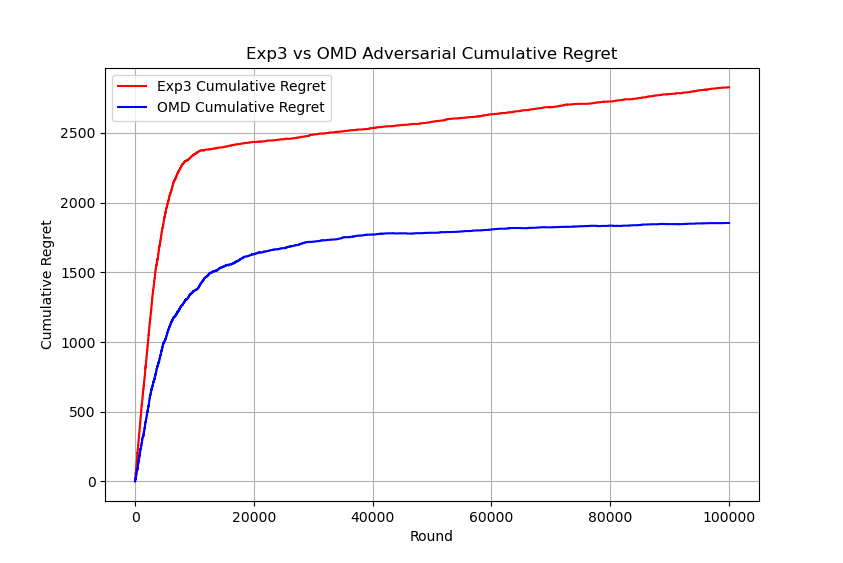
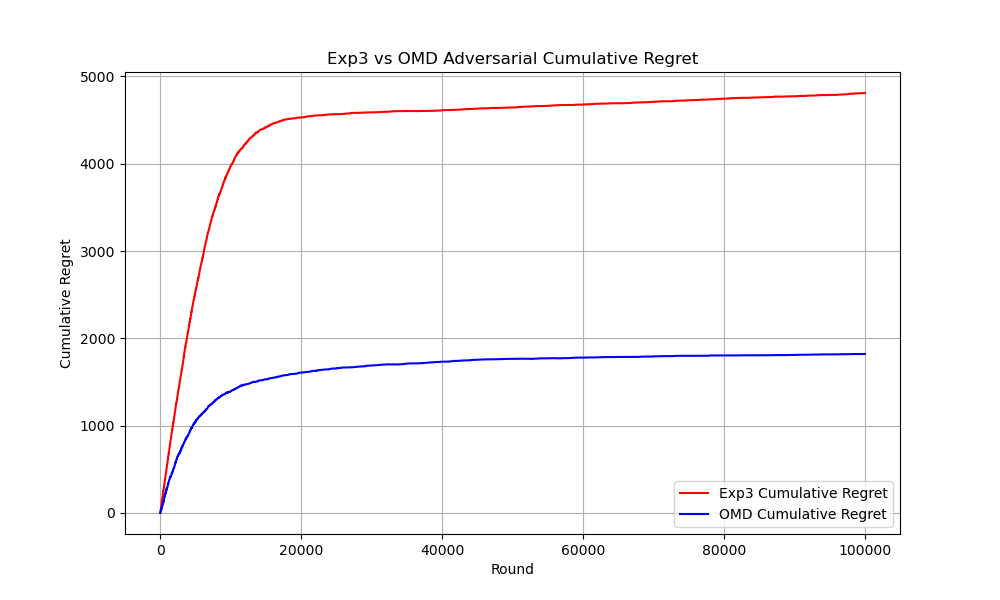
changes 3'abiya

diff --git a/omd/omdstochastic.py b/omd/omdstochastic.py
@@ -9,10 +9,15 @@ class stochastic_OMD_Environment:
         self.normalization_factor = 200*math.sqrt(10)
         self.estimated_loss_vector = np.zeros(number_of_arms)
         self.number_of_arms = number_of_arms
-        self.best_arm = random.randint(0, number_of_arms - 1)
+        # self.weights = np.random.uniform(0, 1, number_of_arms)
+        # alpha = np.random.randint(1, number_of_arms+1, number_of_arms)
+        # self.weights = np.random.dirichlet(alpha, size = 1).squeeze(0)
+
+        # self.best_arm = random.randint(0, number_of_arms - 1)
     
     def newtons_approximation_for_arm_weights(self, normalization_factor, estimated_loss_vector, learning_rate):
         weights_for_arms = np.zeros(number_of_arms)
+        # weights_for_arms = self.weights
         epsilon = 1.0e-9
         previous_normalization_factor = normalization_factor
         updated_normalization_factor = normalization_factor
@@ -21,7 +26,7 @@ class stochastic_OMD_Environment:
                 inner_product = abs((learning_rate * (estimated_loss_vector[arm] - updated_normalization_factor)))
                 exponent_of_inner_product = math.pow(((inner_product + epsilon)), -2)
                 weight_of_arm = 4 * exponent_of_inner_product
-                weights_for_arms[arm] = weight_of_arm
+                weights_for_arms[arm] = weight_of_arm  
             sum_of_weights = sum(weights_for_arms)
             numerator = sum_of_weights - 1
             sum_of_arms_taken_to_power = 0
@@ -43,65 +48,99 @@ class stochastic_OMD_Environment:
         action_chosen = np.random.choice(number_of_arms, p = weights_of_arms)
         return action_chosen
     
-    def update_best_arm(self):
-        return self.best_arm
+    # def theseAreOurWeights(self):
+    #     weights_for_our_arms = self.weights
+    #     return weights_for_our_arms
     
-    def updateLossVector(self, chosen_arm, loss_vector):
+    # def update_best_arm(self):
+    #     return self.best_arm
+    
+    def updateLossVector(self, chosen_arm, loss):
         weights_of_arms, self.normalization_factor = self.newtons_approximation_for_arm_weights(self.normalization_factor, self.estimated_loss_vector, self.learning_rate)
         if weights_of_arms[chosen_arm] > 0:
-            new_loss_estimate = loss_vector[chosen_arm] / weights_of_arms[chosen_arm]
+            new_loss_estimate = loss / weights_of_arms[chosen_arm]
         else:
             new_loss_estimate = 0
         self.estimated_loss_vector[chosen_arm] += new_loss_estimate
 
 number_of_arms = 10
 time_horizon = 100000
-learning_rate = 0.008
-#this one is shwya 3bee6 mdri leh 
+learning_rate = 0.005
+#this one is shwya 3bee6 mdri leh
 
-stochasticExp3Environment = stochastic_OMD_Environment(learning_rate, number_of_arms)
-best_arm = stochasticExp3Environment.update_best_arm()
-
-losses_for_all_rounds = np.zeros((time_horizon, number_of_arms))
-for round_played in range(time_horizon):
-    losses_for_each_round = np.zeros(number_of_arms)
-    for arm in range(number_of_arms):
-        loss_of_arm = 0
-        probability = random.random()
-        if arm == best_arm:
-            if probability < 0.8:
-                loss_of_arm += 0
-            else:
-                loss_of_arm += 1
-        else:
-            if probability < 0.2:
-                loss_of_arm += 0
-            else:
-                loss_of_arm += 1
-        losses_for_each_round[arm] = loss_of_arm
-    losses_for_all_rounds[round_played] = losses_for_each_round
-    
-best_arms_in_each_round = []
-for loss_vector in range(len(losses_for_all_rounds)):
-    best_arm_in_this_round = np.argmin(losses_for_all_rounds[loss_vector])
-    best_arms_in_each_round.append(best_arm_in_this_round)
-frequency_of_each_best_arm = np.bincount(best_arms_in_each_round)
-optimal_arm = np.argmax(frequency_of_each_best_arm)
-
-cumulative_optimal_loss = 0
-cumulative_loss = 0
+stochasticOMDEnvironment = stochastic_OMD_Environment(learning_rate, number_of_arms)
+# best_arm = stochasticOMDEnvironment.update_best_arm()
+arm_means = np.random.uniform(0, 1, number_of_arms)
+# alpha = np.random.randint(1, number_of_arms+1, number_of_arms)
+# arm_means = np.random.dirichlet(alpha, size = 1).squeeze(0) #stolen from github, idk if this is better than just using a uniform distribution for the means
+# arm_means = stochasticOMDEnvironment.theseAreOurWeights()
+losses_for_arm_in_each_round = []
 regrets = []
+cumulative_loss = 0
+cumulative_optimal_loss = 0
 
-for round_loss_vector in range(len(losses_for_all_rounds)):
-    this_rounds_loss_vector = losses_for_all_rounds[round_loss_vector]
-    chosen_arm = stochasticExp3Environment.selectArm()
-    stochasticExp3Environment.updateLossVector(chosen_arm, this_rounds_loss_vector)
-    optimal_loss = this_rounds_loss_vector[optimal_arm]
-    actual_loss = this_rounds_loss_vector[chosen_arm]
-    cumulative_optimal_loss += optimal_loss
-    cumulative_loss += actual_loss
+for round_played in range(time_horizon):
+    chosen_arm = stochasticOMDEnvironment.selectArm()
+    loss_for_arm = 1 - np.random.binomial(1, arm_means[chosen_arm]) #np.random gives us 0 or 1 based on probability of success
+    losses_for_arm_in_each_round.append(loss_for_arm)
+    stochasticOMDEnvironment.updateLossVector(chosen_arm, losses_for_arm_in_each_round[round_played])
+    optimal_arm = np.argmax(arm_means)
+    loss_for_optimal_arm = 1 - np.random.binomial(1, arm_means[optimal_arm])
+    cumulative_loss += loss_for_arm
+    cumulative_optimal_loss += loss_for_optimal_arm
     regret_for_this_round = cumulative_loss - cumulative_optimal_loss
     regrets.append(regret_for_this_round)
+    
+#     print("this is the loss for our arm", cumulative_loss)
+#     print("this is the optimal loss for our arm", cumulative_optimal_loss)
+# print("these are the regrets", regrets)
+    # stochasticOMDEnvironment.updateLossVector(chosen_arm, losses_for_arm_in_each_round)
+    
+    # print(optimal_arm)
+# losses_for_all_rounds = np.zeros((time_horizon, number_of_arms))
+
+# for round_played in range(time_horizon):
+#     losses_for_each_round = np.zeros(number_of_arms)
+#     for arm in range(number_of_arms):
+#         loss_of_arm = 0
+#         # probability = random.random()
+#         loss_of_arm = 1 - np.random.binomial(1, arm_means[arm])
+#         # if arm == best_arm:
+#         #     if probability < 0.8:
+#         #         loss_of_arm += 0
+#         #     else:
+#         #         loss_of_arm += 1
+#         # else:
+#         #     if probability < 0.2:
+#         #         loss_of_arm += 0
+#         #     else:
+#         #         loss_of_arm += 1
+#         losses_for_each_round[arm] = loss_of_arm
+#     losses_for_all_rounds[round_played] = losses_for_each_round
+# print(np.random.binomial(1, arm_means[arm]))
+# optimal_arm = np.argmin(arm_means)
+
+# best_arms_in_each_round = []
+# for loss_vector in range(len(losses_for_all_rounds)):
+#     best_arm_in_this_round = np.argmin(losses_for_all_rounds[loss_vector])
+#     best_arms_in_each_round.append(best_arm_in_this_round)
+# frequency_of_each_best_arm = np.bincount(best_arms_in_each_round)
+# optimal_arm = np.argmax(frequency_of_each_best_arm)
+
+# cumulative_optimal_loss = 0
+# cumulative_loss = 0
+# regrets = []
+
+# for round_loss_vector in range(len(losses_for_all_rounds)):
+#     this_rounds_loss_vector = losses_for_all_rounds[round_loss_vector]
+#     chosen_arm = stochasticOMDEnvironment.selectArm()
+#     stochasticOMDEnvironment.updateLossVector(chosen_arm, this_rounds_loss_vector)
+#     optimal_loss = this_rounds_loss_vector[optimal_arm]
+#     actual_loss = this_rounds_loss_vector[chosen_arm]
+#     cumulative_optimal_loss += optimal_loss
+#     cumulative_loss += actual_loss
+#     regret_for_this_round = cumulative_loss - cumulative_optimal_loss
+#     regrets.append(regret_for_this_round)
 
 plt.plot(regrets, label='Cumulative Regret')
 plt.xlabel('Round')

diff --git a/ucb/ucbstochastic.py b/ucb/ucbstochastic.py
@@ -23,7 +23,7 @@ def UCB(arm_means, num_arms, time_horizon, delta):
             #that's chosen most of the time -> whole point of the algo (thats also why its called the
             #"greedy arm" since in theory the arm with the highest ucb should be the best one,
             #since the agent doesn't know the optimal arm this is their way of having a best arm)
-            reward = np.random.uniform(1, arm_means[greedy_arm]) #generating a random uniformly distributed
+            reward = np.random.binomial(1, arm_means[greedy_arm]) #generating a random uniformly distributed
             #reward for the greedy arm
             num_pulls[greedy_arm] += 1 #increment the number of times the arm has been pulled
             regret[round, iter] = arm_means[optimal_arm] - arm_means[greedy_arm] #now we can fr 
@@ -39,8 +39,11 @@ def UCB(arm_means, num_arms, time_horizon, delta):
 #parameters for our simulation of the UCB algorithm
 num_arms = 10  #number of arms
 time_horizon = 100000  #time horizon -> basically how many rounds are we playing in total
-arm_means = np.random.uniform(0.1, 0.9, num_arms)  #generate uniformly distributed arm means
+arm_means = np.random.uniform(0, 1, num_arms)
+# arm_means = np.array([0.1, 0.1, 0.1, 0.1, 0.1, 0.1, 0.1, 0.1, 0.1, 0.1])
+#generate uniformly distributed arm means
 #between 0.1-0.9
+# arm_means = np.random.binomial(num_arms, )
 delta = 0.1 #tiny exploration parameter -> explore like 10% of the time
 
 #running the algorithm to find the regret for this given simulating

diff --git a/omd/omdadversarial.py b/omd/omdadversarial.py
@@ -282,12 +282,12 @@ number_of_arms = 10
 time_horizon = 100000
 learning_rate = 0.005
 
-adversarialExp3Environment = Adversarial_OMD_Environment(learning_rate, number_of_arms)
+adversarialOMDEnvironment = Adversarial_OMD_Environment(learning_rate, number_of_arms)
 
 losses_for_all_rounds = np.zeros((time_horizon, number_of_arms))
 for round_played in range(time_horizon):
     losses_for_each_round = np.zeros(number_of_arms)
-    best_arm = adversarialExp3Environment.update_best_arm()
+    best_arm = adversarialOMDEnvironment.update_best_arm()
     for arm in range(number_of_arms):
         loss_of_arm = 0
         if arm == best_arm:
@@ -310,8 +310,8 @@ regrets = []
 
 for round_loss_vector in range(len(losses_for_all_rounds)):
     this_rounds_loss_vector = losses_for_all_rounds[round_loss_vector]
-    chosen_arm = adversarialExp3Environment.selectArm()
-    adversarialExp3Environment.updateLossVector(chosen_arm, this_rounds_loss_vector)
+    chosen_arm = adversarialOMDEnvironment.selectArm()
+    adversarialOMDEnvironment.updateLossVector(chosen_arm, this_rounds_loss_vector)
     optimal_loss = this_rounds_loss_vector[optimal_arm]
     actual_loss = this_rounds_loss_vector[chosen_arm]
     cumulative_optimal_loss += optimal_loss

diff --git a/comparisons/adversarialenvironment.py b/comparisons/adversarialenvironment.py
@@ -28,7 +28,7 @@ class Adversarial_Exp3:
     
     def update_best_arm(self):
         probability = random.random()
-        if probability <= 0.45:
+        if probability <= 0.35:
             best_arm = random.randint(0, n_arms - 1)
         else:
             best_arm = self.best_arm
@@ -45,7 +45,7 @@ class Adversarial_Exp3:
 
 n_arms = 10
 time_horizon = 100000
-learning_rate = 0.01
+learning_rate = 0.005
 adversarialExp3Environment = Adversarial_Exp3(learning_rate, n_arms)
 
 rewards_for_all_rounds = np.zeros((time_horizon, n_arms))
